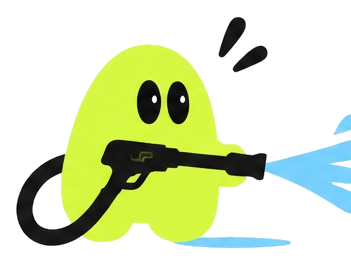
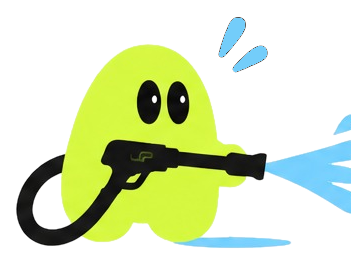
Recolor hero mascot's droplets blue too, add cache-busting
- mascotte-hogedruk's two droplet marks recolored to the same
  water-blue as the other two mascots, for consistency. Gun/hose
  prop and eyes untouched (no contrast problem there); a ~23px fleck
  near the trigger was excluded so it doesn't get mistaken for a
  droplet.
- Added ?v=N cache-busting query params to all three mascot <img>
  src attributes. The "eye is still white" report turned out to be a
  stale browser-cached image, not a real bug (verified pixel-by-pixel
  on a freshly re-fetched copy of the live file) - this should stop
  that confusion from recurring on future asset tweaks.

Changed region(s): [[0.6268, 0.0611, 0.7123, 0.2137], [0.6553, 0.1832, 0.7692, 0.2748]]

diff --git a/index.html b/index.html
@@ -33,7 +33,7 @@
           <p>Professionele hogedrukreiniging in Limburg. Vakkundig, milieuvriendelijk en tegen een eerlijke prijs.</p>
           <a href="#contact" class="btn btn-primary">Vraag een offerte aan</a>
         </div>
-        <img class="hero-mascot" src="assets/mascotte-hogedruk.png" alt="Under Pressure mascotte met een hogedrukreiniger">
+        <img class="hero-mascot" src="assets/mascotte-hogedruk.png?v=2" alt="Under Pressure mascotte met een hogedrukreiniger">
       </div>
     </section>
 
@@ -92,7 +92,7 @@
     <section id="waarom">
       <div class="waarom-header">
         <h2>Waarom Under Pressure?</h2>
-        <img class="waarom-mascot" src="assets/mascotte-schild.png" alt="Under Pressure mascotte met een schild, symbool voor betrouwbaarheid" loading="lazy">
+        <img class="waarom-mascot" src="assets/mascotte-schild.png?v=3" alt="Under Pressure mascotte met een schild, symbool voor betrouwbaarheid" loading="lazy">
       </div>
       <div class="values-grid">
         <div class="value-card">
@@ -156,7 +156,7 @@
   </main>
 
   <footer class="site-footer">
-    <img class="footer-mascot" src="assets/mascotte-piepen.png" alt="" aria-hidden="true" loading="lazy">
+    <img class="footer-mascot" src="assets/mascotte-piepen.png?v=3" alt="" aria-hidden="true" loading="lazy">
     <div class="brand">
       <img src="assets/logo.png" alt="Under Pressure Power Washing logo">
       <span>Under Pressure Power Washing</span>

diff --git a/CLAUDE.md b/CLAUDE.md
@@ -41,7 +41,11 @@ Stays working as long as: the repo stays public, the Combell domain registration
 ## Mascot
 `assets/mascotte-*.png` are cropped/cutout from a 4x3 sprite sheet the client supplied, background made transparent. Currently used: `mascotte-hogedruk` (hero), `mascotte-schild` (waarom section), `mascotte-piepen` (footer, decorative/`aria-hidden`).
 
-`mascotte-schild` and `mascotte-piepen` are used on dark sections, but their prop (the shield / the wall) and the small droplet marks were originally drawn solid black — invisible against a dark background. Fixed by connected-component analysis on the black pixels: the prop is always the one big (~9500px) blob, recolored white; among the small (~350-900px) blobs, the ones touching the lime body are eyes (left black), the ones floating free of the body are the droplet marks, recolored to the same water-blue as the spray in `mascotte-hogedruk` (`rgb(115, 205, 250)`) since they read as water splashes. Uses 4-connectivity with a strict darkness threshold, needed because with looser (8-connectivity) settings the peeking mascot's eye — which sits right at the wall's edge — got fused into the wall's blob and wrongly recolored too. If more poses from the sprite sheet get used later on a dark section, check for the same issue.
+**Cache-busting:** each `<img src="assets/mascotte-*.png">` in `index.html` has a `?v=N` query param. Bump it whenever a mascot PNG's *content* changes (not on unrelated edits) — GitHub Pages/browsers cache these images by filename, and without a version bump a visitor's browser can keep showing a stale image for a long time after a fix ships, which looks like the fix didn't work. Current: hogedruk `v=2`, schild `v=3`, piepen `v=3`.
+
+`mascotte-schild` and `mascotte-piepen` are used on dark sections, but their prop (the shield / the wall) and the small droplet marks were originally drawn solid black — invisible against a dark background. Fixed by connected-component analysis on the black pixels: the prop is always the one big (~9500px) blob, recolored white; among the small (~350-900px) blobs, the ones touching the lime body are eyes (left black), the ones floating free of the body are the droplet marks, recolored to the same water-blue as the spray in `mascotte-hogedruk` (`rgb(115, 205, 250)`) since they read as water splashes. Uses 4-connectivity with a strict darkness threshold, needed because with looser (8-connectivity) settings the peeking mascot's eye — which sits right at the wall's edge — got fused into the wall's blob and wrongly recolored too. `mascotte-hogedruk`'s gun/hose prop was left black (no contrast problem there, it's not the biggest thing on a dark section the way the shield/wall were) — only its two droplet marks were recolored blue; a ~23px fleck near the gun trigger was excluded by a minimum-size check so it doesn't get mistaken for a droplet. If more poses from the sprite sheet get used later on a dark section, check for the same issue.
+
+Every mascot eye has a tiny (~5-8px) white highlight dot inside the black pupil — that's original art style, not a bug, and it's present on all three poses.
 
 ## Conventions
 - All visible copy is Dutch
